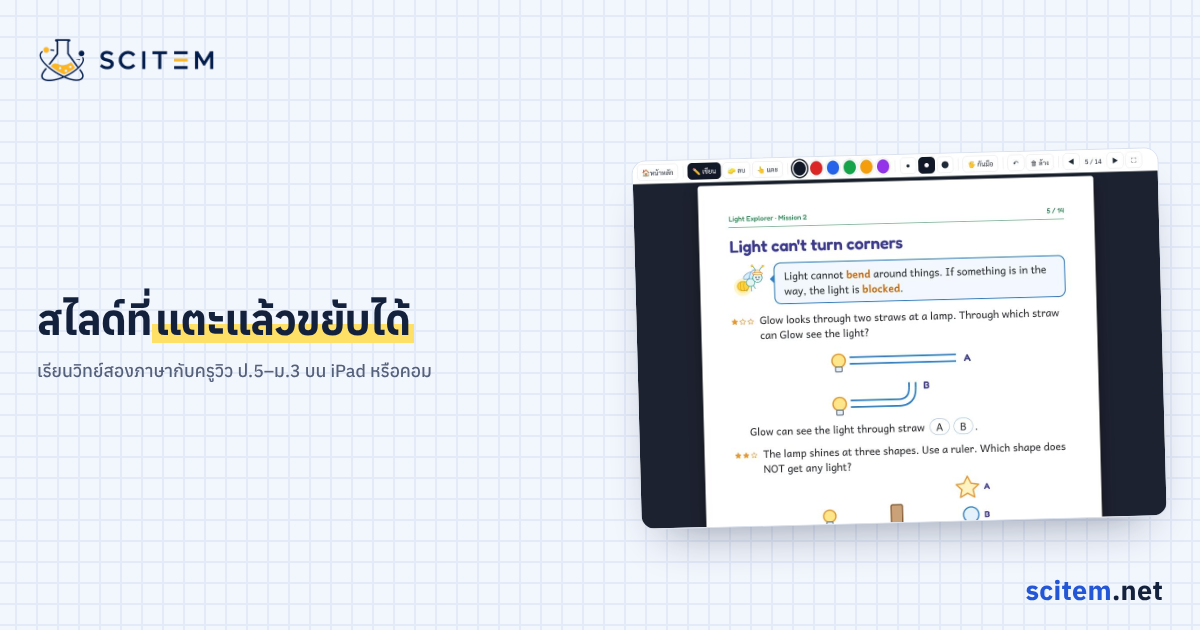
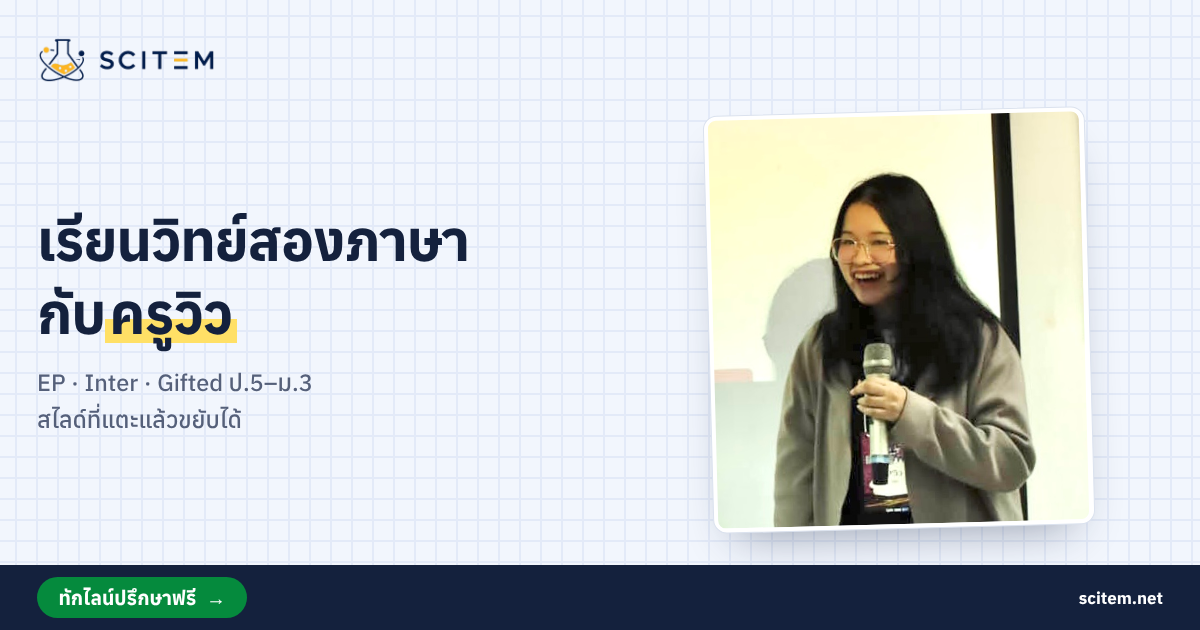
Image CI v2: sales-post recipe in DESIGN.md, v2 images become the samples
Claude-Session: https://claude.ai/code/session_011tkLw2WJTVTTHzxB5x9xoE

diff --git a/DESIGN.md b/DESIGN.md
@@ -24,20 +24,29 @@ Anuphan, self-hosted in `public/fonts/`, is used for everything.
 รูปโปรโมต/ประกอบโพสต์ทุกรูปทำด้วย `node tools/make-image.mjs` (แม่แบบ `tools/image-shell.html`) ซึ่งดึงสีและฟอนต์จาก `src/layouts/Base.astro` ทุกครั้ง แก้สีที่เว็บแล้วรูปตามเอง ได้ PNG ที่ `public/img/promo/<ชื่อ>.png`
 
 ```
-node tools/make-image.mjs --size ig|fb|line --title "ชีท*วงกลม π* ป.6" --sub "..." [--img public/img/xxx.jpg] <ชื่อไฟล์>
+node tools/make-image.mjs --size ig|fb|line --title "เรื่อง*วงกลม π* ป.6" --sub "..." [--img public/img/xxx.jpg]
+  [--zoom x,y,w,h] [--badge "ลด 10%"] [--cta "ทักไลน์ รับชีทฟรี"] <ชื่อไฟล์>
 ```
+ตัวอย่างที่ใช้จริง: `public/img/promo/sample-ig.png` (ชีท+ป้ายโปร), `sample-fb.png` (รูปครู), `sample-line.png` (ชีทฟรี)
 ขนาด: `ig` 1080×1080 · `fb` 1200×630 (ตัวหนังสือซ้าย รูปขวา) · `line` 1040×1040. ในหัวข้อ `*คำ*` = ขีดปากกาเน้น, `\n` = ขึ้นบรรทัดใหม่. ตัวหนังสือย่อเองให้พอดี ถ้ายาวจนย่อไม่ได้สคริปต์จะหยุดให้ตัดคำ
+
+สูตรโพสต์ขาย (ให้คนไถฟีดหยุดดู)
+- **หัวข้อ** = ปัญหาหรือผลลัพธ์ที่ผู้ปกครองสนใจ เช่น "ลูกเรียน EP แต่*ศัพท์วิทย์*ไม่แน่น?" ไม่ใช่แค่ชื่อชีท
+- **รูป** = ส่วนที่น่าสนใจของชีทจริง ขยายด้วย `--zoom` (สัดส่วน 0–1 ของรูป: ซ้าย,บน,กว้าง,สูง) ให้อ่านออกบนมือถือ หรือรูปครูวิว
+- **ป้าย** `--badge` = โปร/ราคา/ฟรี สั้นๆ ไม่เกิน 2 บรรทัด วงกลมเหลือง marker เอียง 8° ที่มุมขวาบนของรูป
+- **ปุ่ม** `--cta` = สิ่งที่ให้ทำต่อ ("ทักไลน์ รับชีทฟรี", "ดูตัวอย่างฟรี") แถบ ink เต็มความกว้างด้านล่าง ปุ่มสีเขียว LINE ชื่อ scitem.net สีขาวด้านขวา
+- รูปที่ไม่มี `--cta` (เช่นรูปประกอบบทความ) ไม่ต้องมีแถบ ชื่อ scitem.net อยู่มุมขวาล่างตามเดิม
 
 - **สี**: พื้น tint `#f2f6fd` · ตัวหนังสือ ink `#14213d` · คำรอง muted `#55607a` · น้ำเงิน `#2457d6` (ใช้กับ "scitem" ในชื่อเว็บ) · ปากกาเน้น marker `#ffe066` ขีดใต้คำสำคัญ ทับตัวหนังสือช่วงล่าง 58–92% เหมือน `.mark` บนเว็บ · LINE `#058a3d` ใช้เฉพาะเมื่อพูดถึงไลน์
 - **ฟอนต์**: Anuphan ตัวเดียว ทั้งไทยและอังกฤษ (`public/fonts/` ไฟล์ thai + latin) หัวข้อหนา 700 คำรอง 500 สคริปต์รอฟอนต์โหลดเสร็จก่อนถ่ายภาพ
 - **พื้น**: กระดาษกราฟ เส้น grid `#e3eaf8` หนา 2px บน tint ช่องละ 36px (ที่ 1080) เส้นแรกตรงกับขอบระยะห่าง
-- **ตำแหน่ง**: โลโก้ `logo-bar.png` มุมซ้ายบน · ชื่อ **scitem**.net มุมขวาล่าง ตัวหนา (scitem สีน้ำเงิน .net สี ink) มีทุกรูป · ระยะขอบ 84px (สี่เหลี่ยม) / 64px (fb)
+- **ตำแหน่ง**: โลโก้ `logo-bar.png` มุมซ้ายบน · ชื่อ scitem.net มุมขวาล่างทุกรูป (บนพื้นกราฟ: **scitem** สีน้ำเงิน .net สี ink; ในแถบปุ่ม: สีขาว) · ระยะขอบ 84px (สี่เหลี่ยม) / 64px (fb)
 - **รูปประกอบ**: หน้าชีทหรือภาพสไลด์จริงจาก `public/img/sheets/`, `public/img/slides/`, `public/img/shop/` วางบนการ์ดขาวขอบมน เงานุ่ม เอียง −1.5° เหมือนกระดาษวางบนสมุด
 
 ห้ามทำ
-- ห้ามใช้หน้าเฉลยหรือเห็นคำตอบในรูป (repo เป็น public)
+- ห้ามใช้หน้าเฉลยหรือเห็นคำตอบในรูป (repo เป็น public) และห้ามโปร/ราคาที่หมดเวลาแล้ว
 - ห้ามใช้ฟอนต์อื่น ไล่สี (gradient) เงาตัวหนังสือ หรือสีนอกรายการข้างบน
-- ห้ามปากกาเน้นเกินหนึ่งช่วงต่อหัวข้อ และห้ามเน้นทั้งประโยค
+- ห้ามปากกาเน้นเกินหนึ่งช่วงต่อหัวข้อ และห้ามเน้นทั้งประโยค · ป้ายเหลืองไม่เกินหนึ่งอันต่อรูป · ปุ่มเดียวต่อรูป
 - ห้ามวางตัวหนังสือทับรูปถ่าย ห้ามยืด/บีบโลโก้ ห้ามตัดชื่อ scitem.net ออก
 - ห้ามรูปที่มีข้อมูลส่วนตัว (เบอร์โทร ชื่อเต็มนักเรียน หน้าเด็ก GPS ในรูปจากมือถือ)
 - ห้ามแก้รูปใน `public/img/promo/` ด้วยมือ ให้แก้คำสั่งแล้วสร้างใหม่

diff --git a/CLAUDE.md b/CLAUDE.md
@@ -13,7 +13,7 @@ push ขึ้น `main` แล้ว GitHub Actions (`.github/workflows/deploy.
 | ตัวอย่างชีทแบบกองกระดาษ + หน้าต่างดูทีละหน้า | `src/components/Pages.astro`, `Viewer.astro` |
 | รูปตัวอย่าง: หน้าชีท `public/img/sheets/`, ภาพสไลด์ `public/img/slides/`, รูปครู `public/img/วิวถือไมค์.jpeg` (ชื่ออื่นที่รับ: teacher.jpg/png) — รูปจากมือถือต้องลบ GPS และย่อก่อน commit | `pdftoppm -f 1 -l 3 -jpeg -scale-to 1000 <pdf> public/img/sheets/<ชื่อ>` (ห้ามรวมหน้าเฉลย) |
 | หน้าตา (สมุดวิทย์: กระดาษกราฟ, ปากกาเน้น, iPad สไลด์จริง) | `DESIGN.md` |
-| ทำรูปโปรโมต/ประกอบ (ig 1080², fb 1200×630, line 1040²) ตาม DESIGN.md "CI สำหรับรูป" | `node tools/make-image.mjs --size ig\|fb\|line --title "..." --sub "..." [--img public/img/xxx.jpg] <ชื่อ>` → `public/img/promo/<ชื่อ>.png` (แม่แบบ `tools/image-shell.html`, `*คำ*` = ปากกาเน้น) |
+| ทำรูปโปรโมต/ประกอบ (ig 1080², fb 1200×630, line 1040²) ตาม DESIGN.md "CI สำหรับรูป" | `node tools/make-image.mjs --size ig\|fb\|line --title "..." --sub "..." [--img public/img/xxx.jpg] [--zoom x,y,w,h] [--badge "ลด 10%"] [--cta "ทักไลน์ รับชีทฟรี"] <ชื่อ>` → `public/img/promo/<ชื่อ>.png` (แม่แบบ `tools/image-shell.html`, `*คำ*` = ปากกาเน้น) |
 | เมนู, footer, สี, ฟอนต์ | `src/layouts/Base.astro` |
 | ชีท PDF | `public/sheets/*.pdf` |
 | สไลด์เดโมการเคลื่อนที่แบบวงกลม (canvas, ปากกา) | `public/demo/index.html` (เขียนมือ ไฟล์เดียว) |
